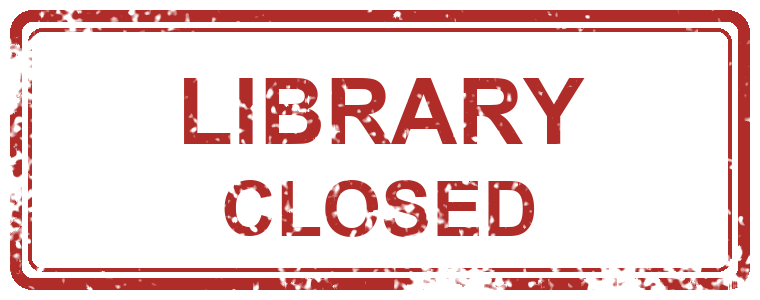
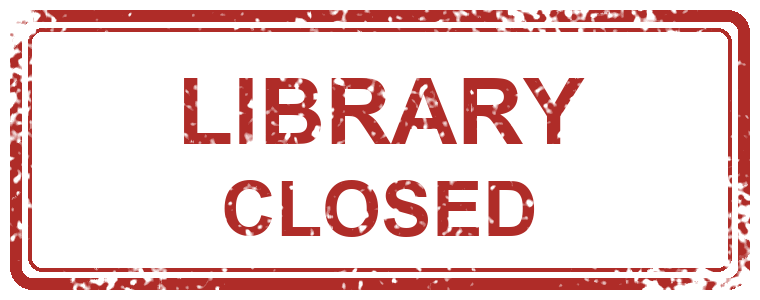
Add fountain coins as a quieter throwable
Four coins sit on the fountains' rims. They throw like the heel but land
with a clink the guard hears from 6 m rather than 8, and a player can
only carry one throwable at a time. The guard's map is rebaked around the
new plinths and signs. This is a gameplay rule for the team to review; to
drop it, remove the Coin nodes from the museum scene.

diff --git a/assets/exterior/source/tools/make_card.py b/assets/exterior/source/tools/make_card.py
@@ -91,6 +91,27 @@ def stamp(name, top, bottom):
     Image.fromarray(rgba, "RGBA").save(OUT / f"stamp_{name}.png", optimize=True)
 
 
+# The brass label on the plinths outside, in the style of the two in the gallery
+lw, lh = 1024, 440
+plate = np.ones((lh, lw, 3), np.float32) * np.array([0.68, 0.51, 0.27], np.float32)
+streaks = np.asarray(Image.fromarray((rng.random((lh, 1)) * 255).astype(np.uint8)).resize((lw, lh)).filter(ImageFilter.GaussianBlur(0.6)), dtype=np.float32) / 255
+plate *= (0.82 + 0.34 * streaks + 0.02 * blur_noise(lw, lh, 1.0))[..., None]
+label = Image.fromarray((plate.clip(0, 1) * 255).astype(np.uint8))
+g = ImageDraw.Draw(label)
+DARK = (52, 34, 18)
+g.rectangle((18, 18, lw - 19, lh - 19), outline=DARK, width=4)
+g.rectangle((28, 28, lw - 29, lh - 29), outline=DARK, width=1)
+for sx, sy in ((48, 48), (lw - 48, 48), (48, lh - 48), (lw - 48, lh - 48)):
+    g.ellipse((sx - 11, sy - 11, sx + 11, sy + 11), outline=DARK, width=3)
+    g.line((sx - 7, sy - 5, sx + 7, sy + 5), fill=DARK, width=3)
+SERIF_B, SERIF_I, SERIF_R = "C:/Windows/Fonts/georgiab.ttf", "C:/Windows/Fonts/georgiai.ttf", "C:/Windows/Fonts/georgia.ttf"
+g.text((lw / 2, 106), "VACANT", font=ImageFont.truetype(SERIF_B, 84), fill=DARK, anchor="mm")
+g.text((lw / 2, 186), "Marble, we hope", font=ImageFont.truetype(SERIF_I, 42), fill=DARK, anchor="mm")
+g.line((342, 227, 682, 227), fill=DARK, width=2)
+g.text((lw / 2, 284), "Sculpture pending donation.", font=ImageFont.truetype(SERIF_R, 46), fill=DARK, anchor="mm")
+g.text((lw / 2, 352), "Please stand very still.", font=ImageFont.truetype(SERIF_I, 52), fill=DARK, anchor="mm")
+label.save(OUT.parent / "assets" / "plates" / "label_pending.png", optimize=True)
+
 stamp("withdrawn", "WITHDRAWN", "")
 stamp("revoked", "PRIVILEGES", "REVOKED")
 stamp("closed", "LIBRARY", "CLOSED")

diff --git a/assets/exterior/source/tools/gen_street.py b/assets/exterior/source/tools/gen_street.py
@@ -158,6 +158,14 @@ n.append('[node name="Whisper" type="AudioStreamPlayer" parent="Alarm"]\nstream 
 n.append('[node name="Bell" type="AudioStreamPlayer3D" parent="Alarm"]\ntransform = Transform3D(1, 0, 0, 0, 1, 0, 0, 0, 1, 0, 6, 10)\nstream = ExtResource("snd_alarm_bell")\nvolume_db = -9.0\nunit_size = 20.0\nmax_distance = 220.0\n')
 n.append('[node name="Siren" type="AudioStreamPlayer3D" parent="Alarm"]\ntransform = Transform3D(1, 0, 0, 0, 1, 0, 0, 0, 1, 150, 8, 48)\nstream = ExtResource("snd_siren_far")\nvolume_db = -6.0\nunit_size = 60.0\nmax_distance = 420.0\n')
 
+# Empty plinths a player can stand on and pass for a statue, and the rule that flocks make noise
+STREET_RES += '[ext_resource type="PackedScene" path="res://scenes/statue_plinth.tscn" id="statue_plinth"]\n'
+STREET_RES += '[ext_resource type="Script" path="res://scripts/pigeon_noise.gd" id="pigeon_noise"]\n'
+n.append('[node name="StatuePlinths" type="Node3D" parent="."]\n')
+for i, (x, y, z, turn) in enumerate(((-16.7, D.TERRACE_Y, 13.2, 0), (16.7, D.TERRACE_Y, 13.2, 0), (-17.4, D.PLAZA_Y, 27.2, 0), (17.4, D.PLAZA_Y, 27.2, 0))):
+    n.append(f'[node name="Plinth{i}" parent="StatuePlinths" instance=ExtResource("statue_plinth")]\ntransform = Transform3D(1, 0, 0, 0, 1, 0, 0, 0, 1, {x}, {y}, {z})\n')
+n.append('[node name="PigeonNoise" type="Node" parent="."]\nscript = ExtResource("pigeon_noise")\npigeons_path = NodePath("../Life/Pigeons")\n')
+
 # Flags on the two tall poles
 n.append('[node name="Flags" type="Node3D" parent="."]\n')
 for sx, tag in ((-1, "West"), (1, "East")):

diff --git a/assets/exterior/source/tools/make_sounds.py b/assets/exterior/source/tools/make_sounds.py
@@ -165,6 +165,12 @@ t = np.arange(n) / SR
 hit = low(rng.standard_normal(n), 320) * np.exp(-t * 26.0) + 0.4 * band(rng.standard_normal(n), 900, 3600) * np.exp(-t * 90.0)
 write("stamp", hit + 0.6 * np.sin(2 * np.pi * 92 * t) * np.exp(-t * 20.0))
 
+# A coin landing on stone: two bright rings, gone quickly
+n = int(0.7 * SR)
+t = np.arange(n) / SR
+ping = sum(np.sin(2 * np.pi * f * t) * g * np.exp(-t * d) for f, g, d in ((3240, 1.0, 9.0), (4910, 0.6, 13.0), (7120, 0.3, 19.0)))
+write("coin_clink", ping * (0.8 + 0.2 * np.sign(np.sin(2 * np.pi * 26 * t))))
+
 # Far thunder: one crack softened by distance, then a long roll
 n = 6 * SR
 t = np.arange(n) / SR

diff --git a/assets/exterior/source/tools/gen_front.py b/assets/exterior/source/tools/gen_front.py
@@ -12,7 +12,7 @@ from PIL import Image, ImageDraw, ImageFilter
 
 sys.path.insert(0, str(pathlib.Path(__file__).parent))
 import ext_dims as D
-SOUNDS = ["amb_city", "amb_fountain", "amb_crickets", "pigeons_flap", "pigeon_coo", "car_horn", "car_engine", "door_groan", "she_knows", "alarm_bell", "siren_far", "amb_rain", "amb_wind", "thunder", "stamp"]
+SOUNDS = ["amb_city", "amb_fountain", "amb_crickets", "pigeons_flap", "pigeon_coo", "car_horn", "car_engine", "door_groan", "she_knows", "alarm_bell", "siren_far", "amb_rain", "amb_wind", "thunder", "stamp", "coin_clink"]
 
 WT = pathlib.Path(__file__).resolve().parent
 for up in (WT, *WT.parents):

diff --git a/README.md b/README.md
@@ -42,6 +42,9 @@ The game picks Low, Medium or High for each computer and steps down by itself if
 - (puzzle conditions, artifact ownership/scoring, guard logic, noise/distraction, timer, outcome logic)
 - Pressure plate puzzle condition (scripts/vault_puzzle.gd)
 - Noise system and throw impact rule (scripts/noise_system.gd, scripts/throwable.gd)
+- Pigeons as an alarm (scripts/pigeon_noise.gd)
+- Passing for a statue on the plinths outside (scripts/player.gd, scripts/guard.gd)
+- Fountain coins as a second, quieter throwable (scenes/coin.tscn, scripts/throwable.gd)
 - Artifact pickup, carrying and dropping (scripts/artifact.gd)
 - Cosmetic exterior life: pigeons that scatter from runners, flickering lanterns, front doors that open for anyone near them, and traffic that obeys the signal and honks at people in the road (scripts/exterior_pigeons.gd, scripts/exterior_flicker.gd, scripts/exterior_doors.gd, scripts/exterior_traffic.gd). Each peer runs its own and none touches game state
 
